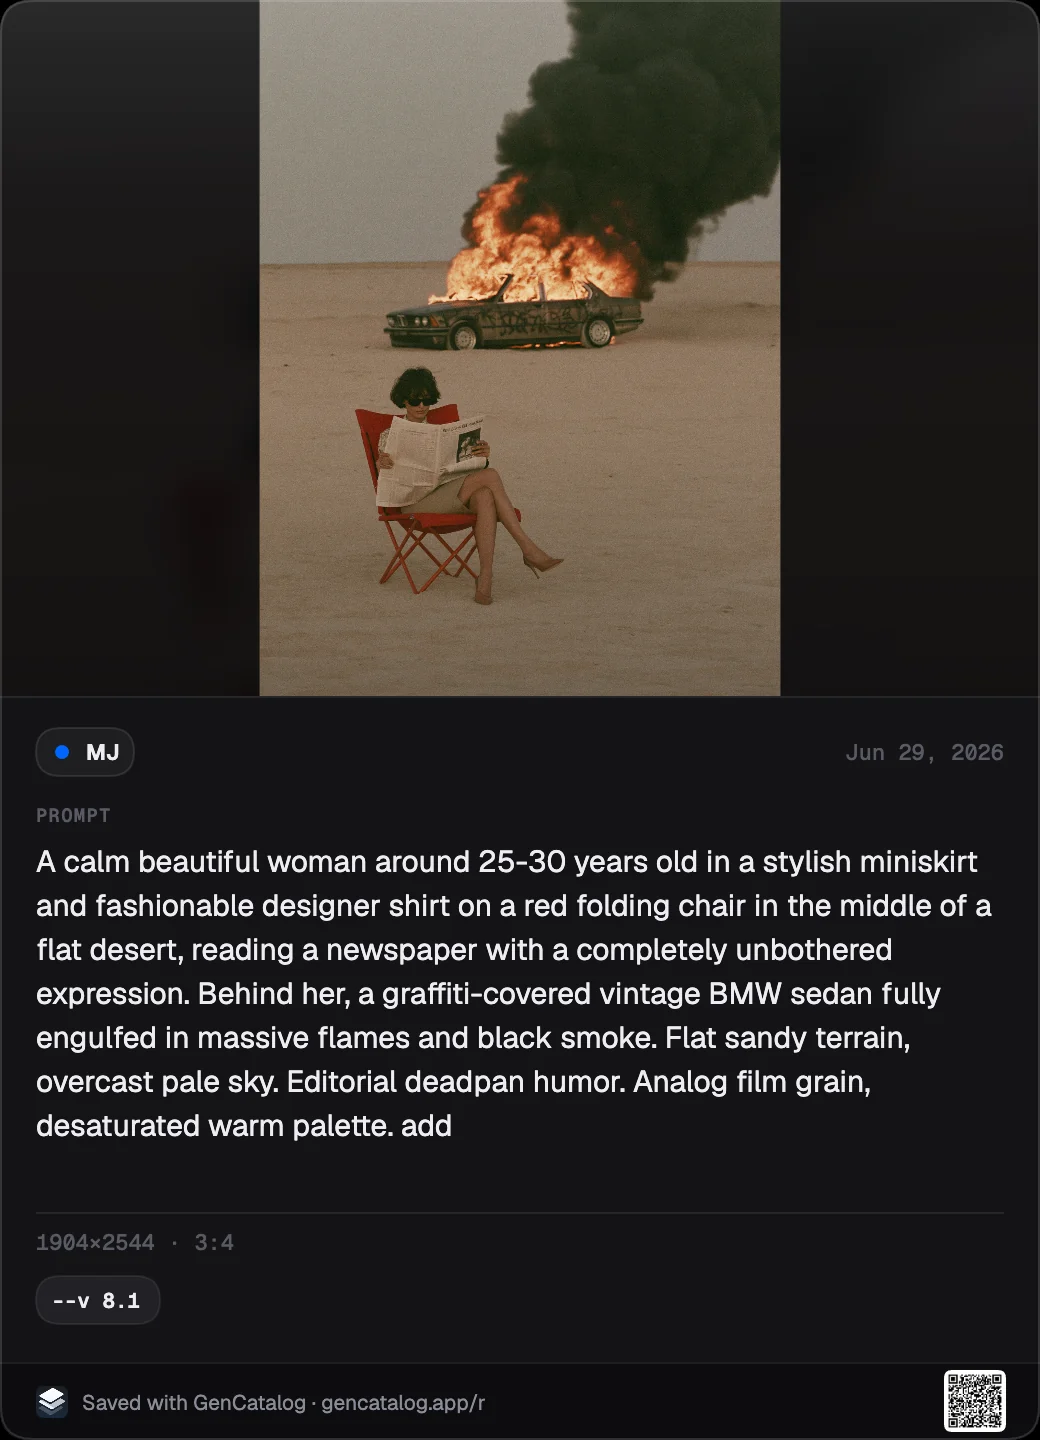
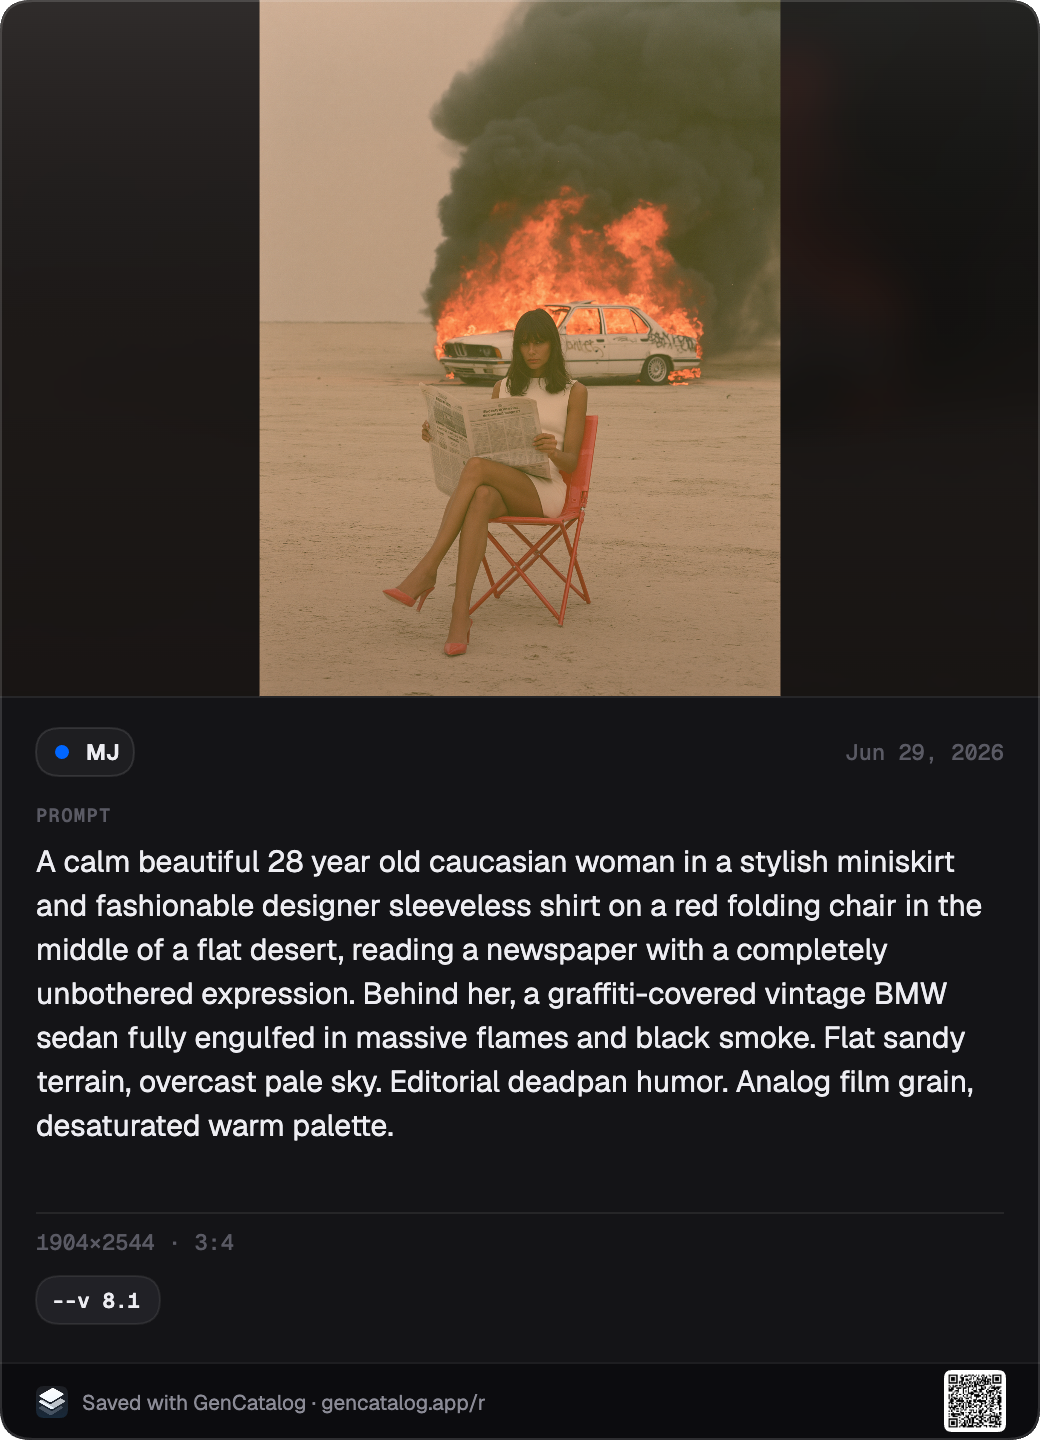
Refresh recipe card landing example

diff --git a/DEVLOG.md b/DEVLOG.md
@@ -1,6 +1,23 @@
 # GenCatalog Site Development Log
 
 ---
+## 2026-06-29 — Refreshed Recipe Card landing example
+
+### What Changed
+- Replaced the `/r` landing page Recipe Card sample image with the supplied
+  exported card.
+- Kept the existing `/recipe-card-demo.webp` asset path so `/r.html` markup
+  and public copy stayed unchanged.
+
+### Verification
+- Converted the supplied 1040x1440 PNG to a lossless WebP at the existing
+  asset path.
+- Confirmed `/r.html` still references `/recipe-card-demo.webp`.
+
+### Status
+- Ready to deploy via Cloudflare Pages on push.
+
+---
 ## 2026-06-29 — Fixed live Recipe Card landing route
 
 ### What Changed
